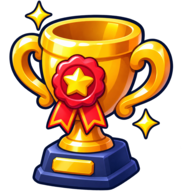
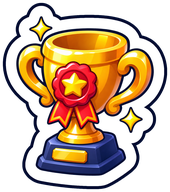
feat(arcade_light): menu_daily and menu_achievements are die-cut stickers with a white rim and a navy line
The art had only its dark navy line, so on the menu's sky the two side keys looked borderless next to the
painted keys in the top bar. Each picture's silhouette is closed (the trophy's handles and sparkles bridged),
hole-filled and grown by a white band (10.5 px at 192, about 5.5 %) and a thin navy line (3 px, about 1.5 %)
in the art's own outline navy, antialiased at the 1024 px source size and downscaled premultiplied. Baked into
the PNGs (192x192 and 170x192), no shader or game code.

diff --git a/CHANGELOG.md b/CHANGELOG.md
@@ -8,7 +8,7 @@ All notable changes to gohud are recorded here. Versions follow [Semantic Versio
 - **`GoBadge` pops**: a count that appears or changes lands at `pop_scale` (1.3) and settles back over `pop_seconds` (0.25) like a `GoCountdown` step — drawing only, nothing under `reduce_motion`; `pop()` replays it. One digit is never narrower than the badge is tall, padding included. **`GoBadge.corner_inset`** moves an attached badge's centre in from the host's corner.
 - **`GoSideButton`'s count sits on the art**: `BADGE_INSET` (0.12 of `picture_size` each way) pulls the badge in from the picture square's empty corner onto the art's corner, still hanging past it — it floated beside the calendar and the trophy before — and its count is in the `subtitle` role (`badge_role`, was `body`), as bold as the key's word.
 - **`GoSideButton`** (`BaseButton`): a side menu key — a big painted picture, a short outlined word under it (`GoOutlineLabel` in arcade_light, the name plate's ink and edge elsewhere) and a `GoBadge` count on the picture's corner (`set_badge(count)`, in the `subtitle` role): the DAILY QUESTS and ACHIEVEMENTS keys down the side of a main menu. No plate; the picture darkens to `GoSkin.picture_press_tint()` while held, pops with the look's press feel and fades when disabled. The word shrinks to `label_width` (never under the fit floor, never wrapped); the whole key takes the press and keeps `GoUi.touch_size()` both ways.
-- **arcade_light menu art**: `menu_daily` (a calendar with a green check and a sparkle, 191x192) and `menu_achievements` (a gold trophy with a red rosette, 187x192) in `assets/arcade_light/rewards/`, through `GoSkin.widget_art`: the pictures of a main menu's daily-quests and achievements `GoSideButton`s.
+- **arcade_light menu art**: `menu_daily` (a calendar with a green check and a sparkle, 192x192) and `menu_achievements` (a gold trophy with a red rosette, 170x192), each a die-cut sticker: a white band (about 5.5 % of the width) and a thin navy line (about 1.5 %) round its closed silhouette, so it reads on a pale sky or cloud like the menu's other painted keys in `assets/arcade_light/rewards/`, through `GoSkin.widget_art`: the pictures of a main menu's daily-quests and achievements `GoSideButton`s.
 - **`GoRewardRow.description`**: a short how-to line under the title ("Win a match online or in stages 2–9") in smaller lettering — arcade_light's new `GoRewardRowNote` (the row's font, 17 dp, a soft navy), the caption role in muted ink elsewhere. Across the title and the bar on a wide row, between the title and the bar on a narrow one; it shrinks to the fit floor, then wraps to two lines (CJK between characters, at full size) and ends in an ellipsis. Empty keeps the row exactly as before. **`GoRewardRow.extent_for(title, description, width, state = READY)`** is a described row's height (the row grows only by the lines its words take), for a list's `item_extent`; the description is spoken after the title.
 - **arcade_light fonts**: the Nunito and Noto Sans CJK subsets gain the characters of Magnet Mayhem's quest how-to lines (`〜`, `≤`, `≥`, 별, 星, 爆, …) and keep every character they had — the game's builder now rebuilds as a union. JP 262,964 → 270,000 bytes, KR 116,856 → 120,632, SC 199,052 → 204,920, TC 212,388 → 218,252, Nunito 69,448 → 69,712.
 - **`GoRewardRow`** (`PanelContainer`): one thing a player earns by progress — a daily quest, an achievement, a season task: one line of a table with a picture, a title (at most two lines, shrinking to the fit floor), a bar with its `3 / 5`, the payment and the state (`IN_PROGRESS`, `READY` with a glowing claim pill, `CLAIMED` with a check, `LOCKED` with a padlock). Below `WIDE_WIDTH` (780 dp) the bar, its fraction and the payment move under the title. arcade_light paints it to stand beside a `GoScoreTable`: a plate per state, a chunky painted bar, full-colour pictures with no plate and the table's lettering; other looks use their own card, a glyph in a well and a dimmed claimed or locked row. `GoRewardRow.extent()` is every row's height under the current look and `GoConfig` at any width (70 dp in arcade_light), so it fits `GoListView.recycle` as well as a `GoScroll`. `claim_pressed(id)` hands back the row's `key` once per READY, and a press begun on a row that moves to other data is dropped.

diff --git a/assets/arcade_light/rewards/README.md b/assets/arcade_light/rewards/README.md
@@ -10,8 +10,9 @@ Painted art for the quest and reward rows. Icons are full colour, about 160 px o
 - `quest_powerup.png` 160x157 - glowing blue lightning power-up orb (pickups)
 - `quest_star.png` 160x151 - shiny gold star (campaign wins)
 - `quest_flame.png` 153x160 - red-orange flame badge (HARD stages cleared)
-- `menu_daily.png` 191x192 - calendar with a green check and a sparkle (a main menu's daily-quests `GoSideButton`)
-- `menu_achievements.png` 187x192 - gold trophy with a red star rosette on a navy base (a main menu's achievements `GoSideButton`)
+- `menu_daily.png` 192x192 - calendar with a green check and a sparkle (a main menu's daily-quests `GoSideButton`)
+- `menu_achievements.png` 170x192 - gold trophy with a red star rosette on a navy base (a main menu's achievements `GoSideButton`)
+- Both menu pictures are die-cut stickers: the art's silhouette, closed (handles, sparkles and body bridged) and hole-filled, grown by a white band of 10.5 px and a navy line of 3 px (at 192 px), antialiased at source size then downscaled. Baked from the 1024 px astra sources (distance transform, premultiplied LANCZOS downscale); the band is part of the picture, no shader draws it.
 - Trophy, skull, clock and check are reused from `../leaderboard/` (`icon_trophy.png`, `icon_skull.png`, `icon_clock.png`, `check_green.png`).
 - `row_cyan.png` 480x136 - empty pale glossy cyan row plate, thin bright cyan rim (open quest); nine-patch 96/96/56/56
 - `row_gold.png` 480x136 - empty glossy gold row plate, gold rim (claimable quest); nine-patch 96/96/56/56

diff --git a/skills/gohud/references/hud.md b/skills/gohud/references/hud.md
@@ -1407,7 +1407,8 @@ look's press feel (`GoStyle.press_feel`); disabled, the picture and the word fad
 look's outlined HUD text (`GoOutlineLabel` in arcade_light), so it reads on a painted backdrop; a look without it takes
 the name plate's ink and edge (`GoSkin.nameplate_ink`, `nameplate_outline_ink`). arcade_light's menu pictures are
 `menu_daily` (a calendar with a green check) and `menu_achievements` (a trophy with a rosette), both 192 px on the long
-side, in `assets/arcade_light/rewards/`.
+side, in `assets/arcade_light/rewards/`: die-cut stickers whose white band and thin navy line are baked into the art, so
+they read on a pale sky; the count's badge sits on the sticker's top-right corner.
 
 | Member | Default | Notes |
 |---|---|---|
